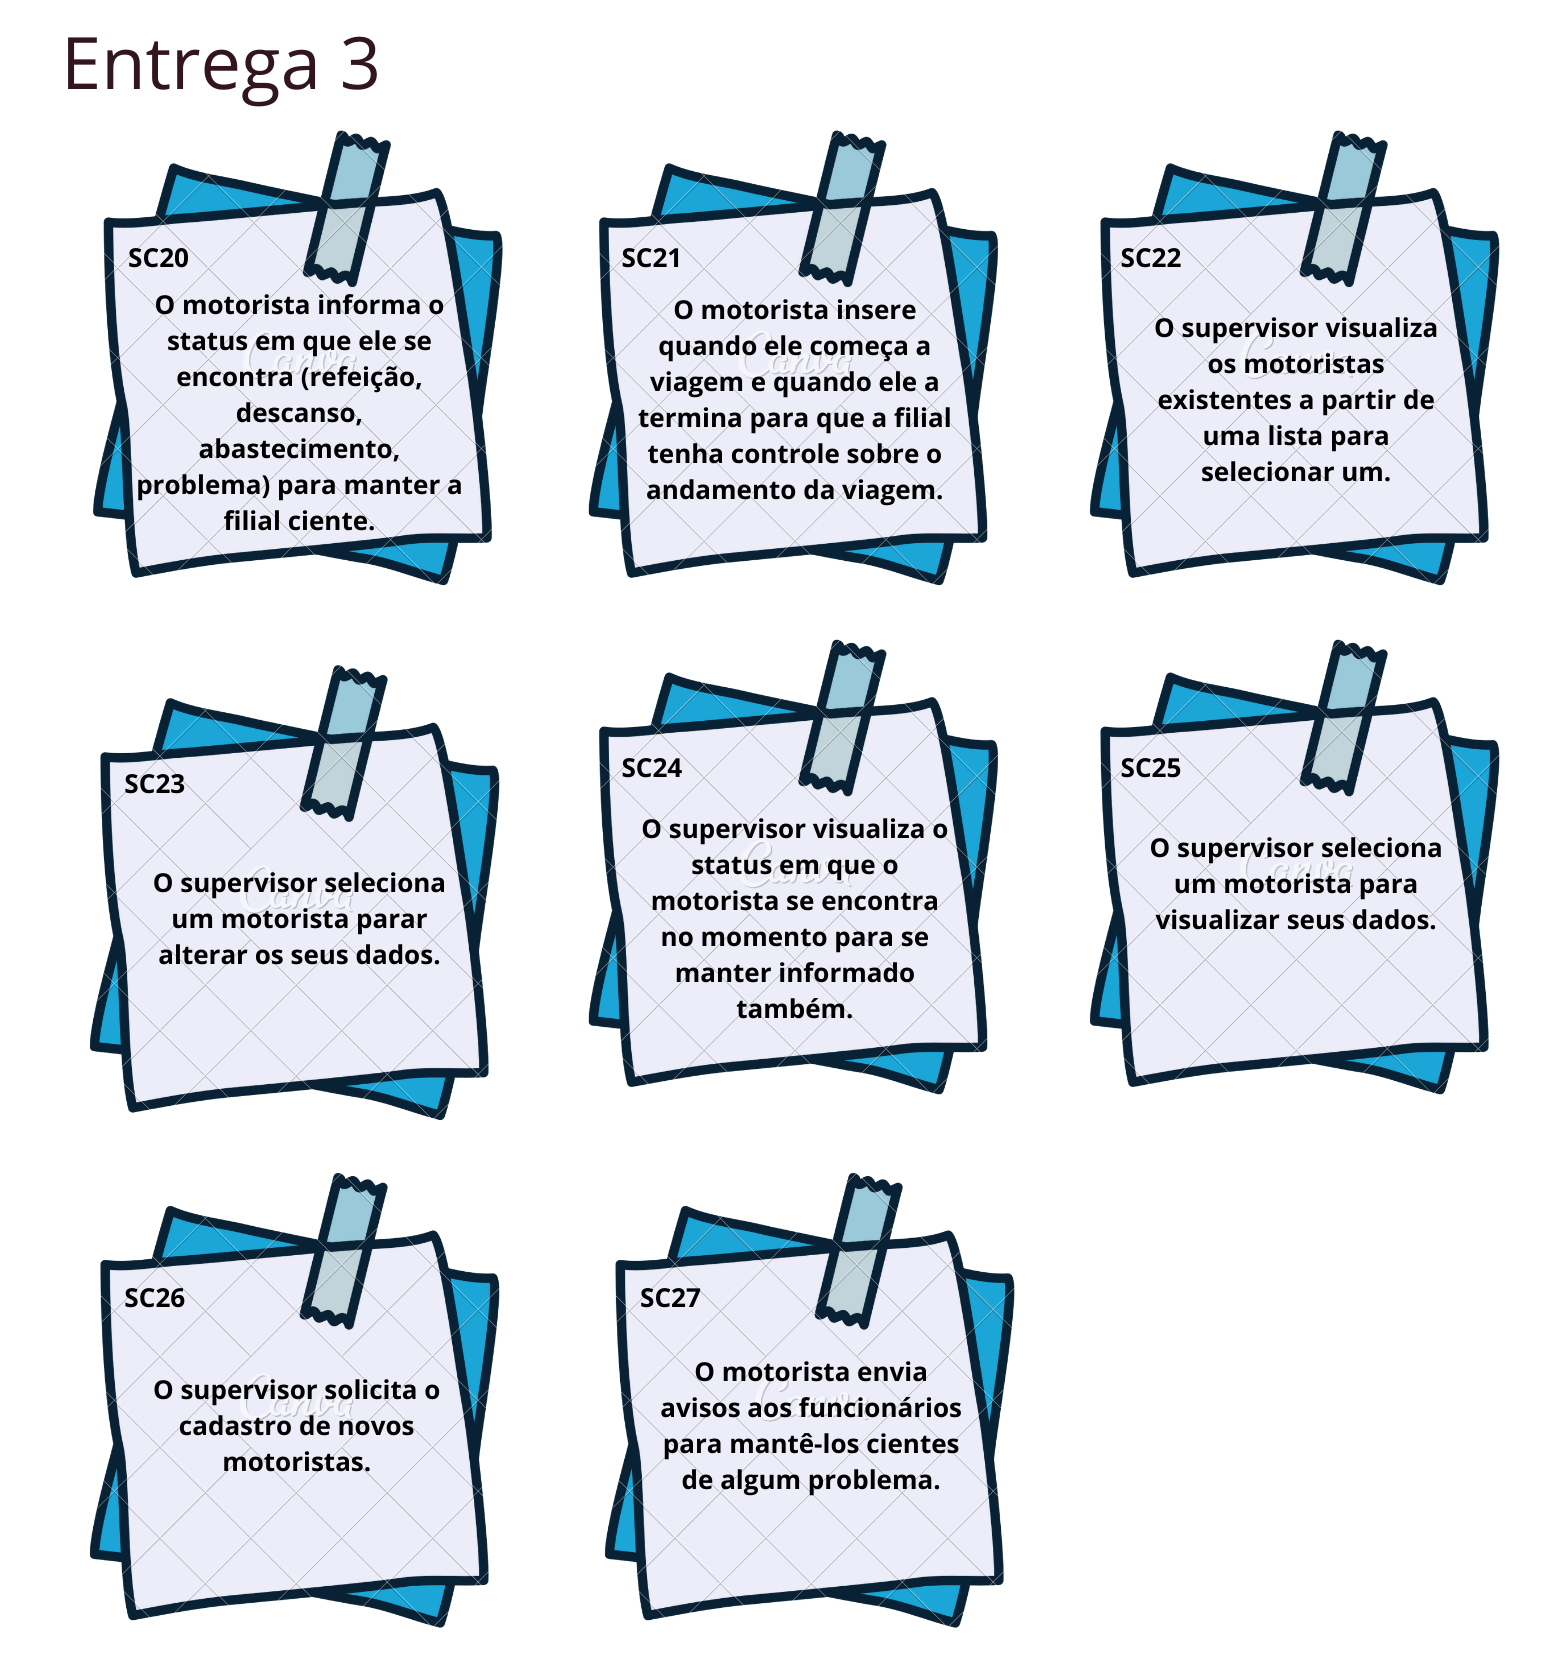
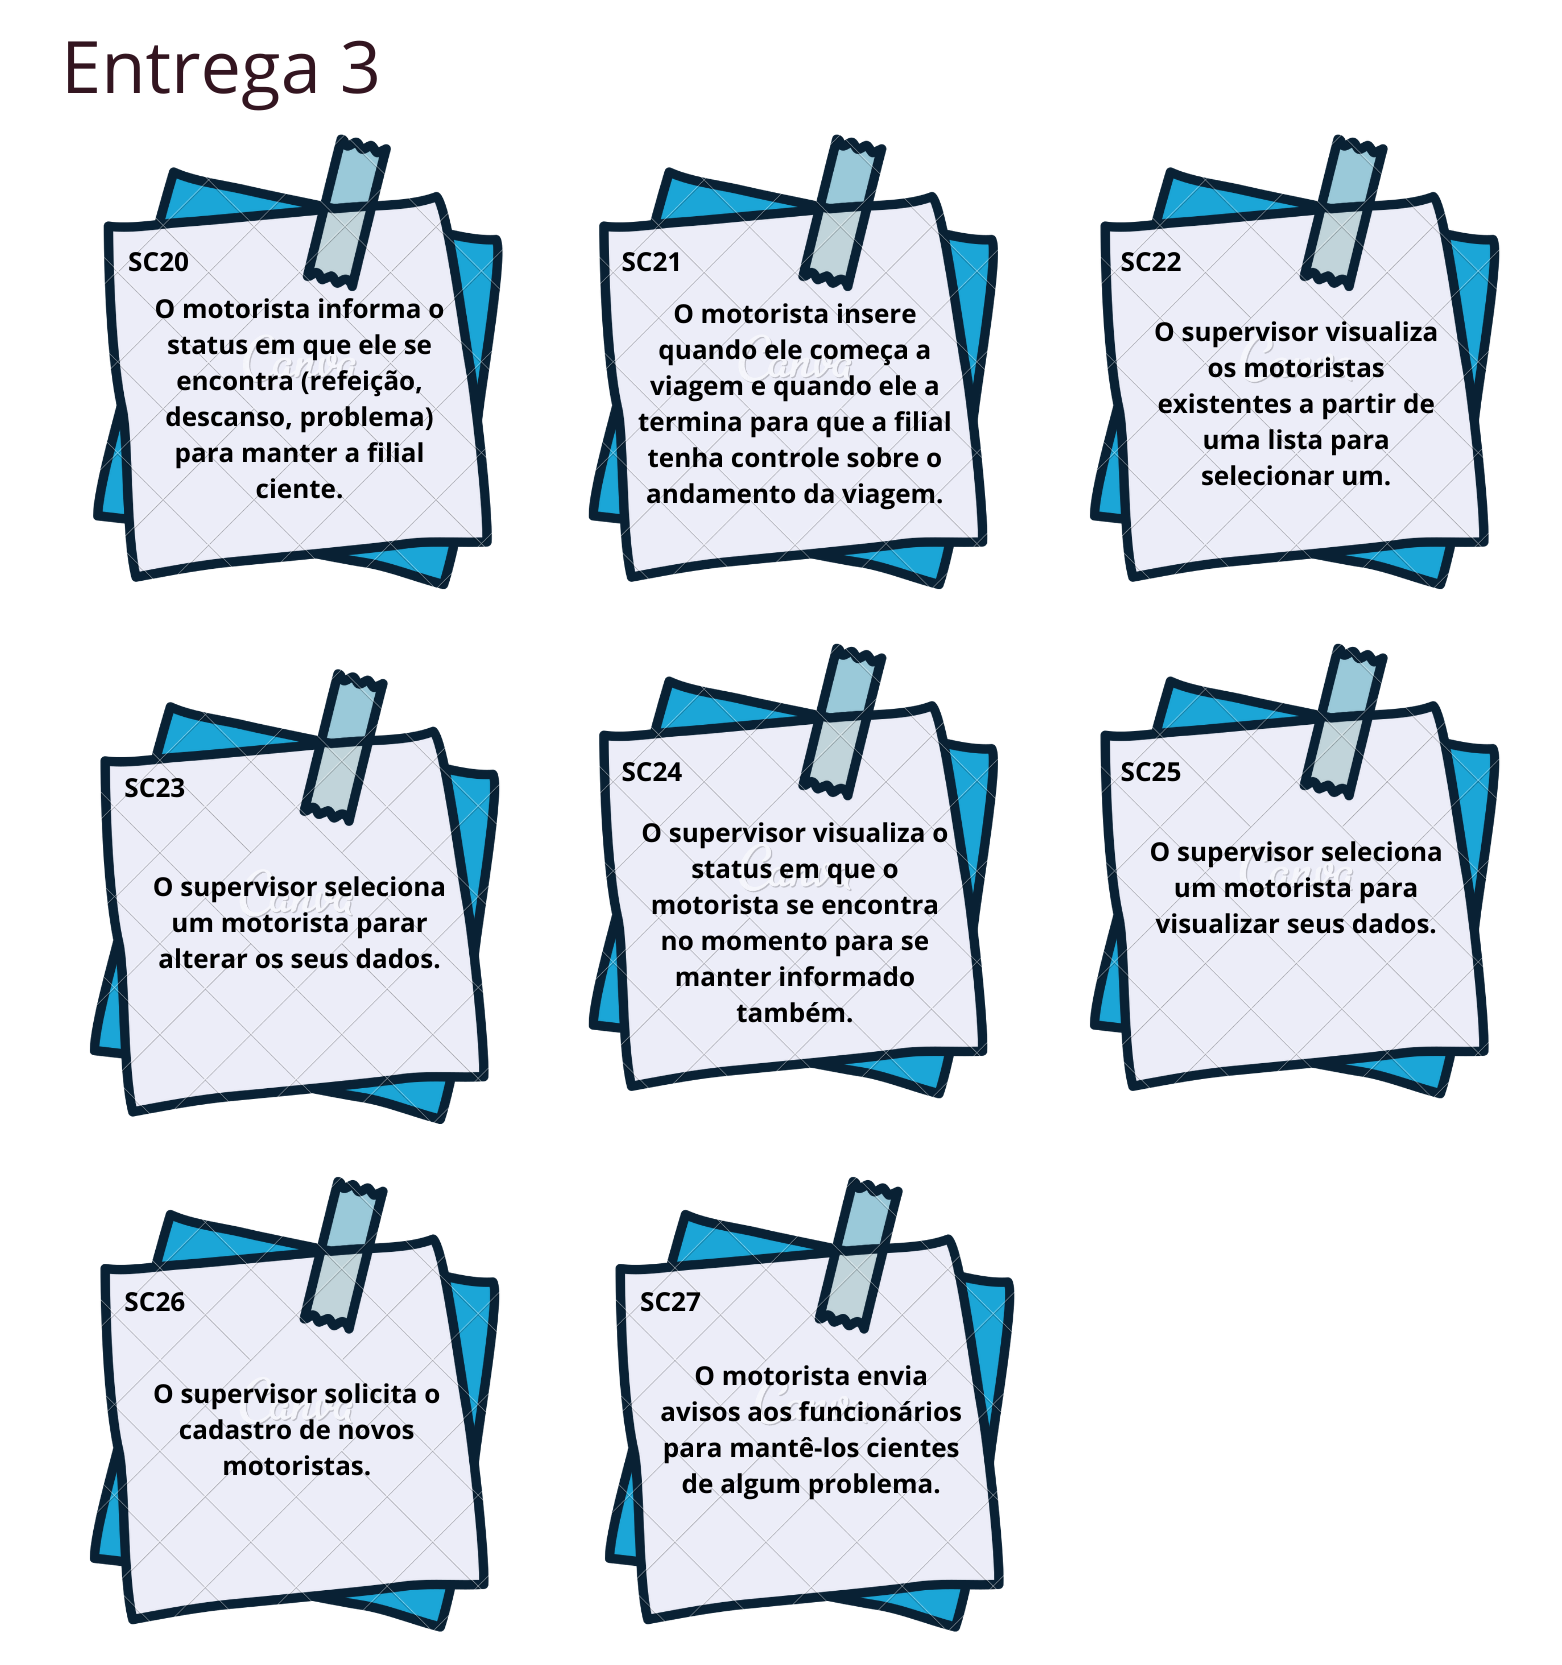
Alteração de um detalhe nas user stories, correção da versão do JDBC no build.gradle, correção de alguns bugs do login e adição do tamanho dos campos de cada coluna do campo. Tempo total: 2 horas.

diff --git a/src/RoadTracker/src/main/java/model/Motorista.java b/src/RoadTracker/src/main/java/model/Motorista.java
@@ -4,6 +4,8 @@ import java.time.LocalDate;
 import java.util.ArrayList;
 import java.util.List;
 
+import javax.persistence.Basic;
+import javax.persistence.Column;
 import javax.persistence.Entity;
 import javax.persistence.EntityManager;
 import javax.persistence.ForeignKey;
@@ -21,13 +23,19 @@ import view.Funcionarios;
 @Table(name = "motoristas")
 public class Motorista {
 	@Id
+	@Column(length=14, nullable=false)
 	private String cpf;
-	
+	@Column(length=50, nullable=false)
 	private String nome;
+	@Column(length=50, nullable=false)
 	private String email;
+	@Column(length=32, nullable=false)
 	private String senha;
+	@Column(length=10, nullable=false)
 	private String salario;
+	@Column(length=4, nullable=false)
 	private String cargaHoraria;
+	@Column(length=11, nullable=false)
 	private String turno;
 	private boolean seg;
 	private boolean ter;
@@ -36,11 +44,15 @@ public class Motorista {
 	private boolean sex;
 	private boolean sab;
 	private boolean dom;
+	@Column(length=13)
 	private String cargo;
-	
+	@Column(length=2)
 	private String dia_atual;
+	@Column(length=5)
 	private String trabalhado_hoje;
+	@Column(length=5)
 	private String descansado_hoje;
+	@Column(length=5)
 	private String alimentacao_hoje;
 	
 	// Mapeamento
@@ -54,7 +66,7 @@ public class Motorista {
 	//@OneToMany(mappedBy = "funcionario")
 	//private List<Viagem> viagens = new ArrayList<Viagem>();
 	
-	
+	@Column(length=14)
 	public String getCpf() {
 		return cpf;
 	}

diff --git a/src/RoadTracker/src/main/java/model/Veiculo.java b/src/RoadTracker/src/main/java/model/Veiculo.java
@@ -3,6 +3,7 @@ package model;
 import java.util.ArrayList;
 import java.util.List;
 
+import javax.persistence.Column;
 import javax.persistence.Entity;
 import javax.persistence.EntityManager;
 import javax.persistence.ForeignKey;
@@ -20,10 +21,15 @@ import view.Veiculos;
 public class Veiculo {
 	
 	@Id
+	@Column(length=8)
 	private String placa;
+	@Column(length=20)
 	private String modelo_veiculo;
+	@Column(length=20)
 	private int id_rastreador;
+	@Column(length=20)
 	private String marca_rastreador;
+	@Column(length=20)
 	private String modelo_rastreador;
 
 	@ManyToOne
@@ -31,9 +37,6 @@ public class Veiculo {
 	private Filial filial = new Filial();
 	@OneToMany(mappedBy = "veiculo")
 	private List<Viagem> viagens = new ArrayList<Viagem>();
-	
-	
-
 	
 	public String getPlaca() {
 		return placa;

diff --git a/src/RoadTracker/src/main/java/model/Filial.java b/src/RoadTracker/src/main/java/model/Filial.java
@@ -2,6 +2,8 @@ package model;
 
 import java.util.ArrayList;
 import java.util.List;
+
+import javax.persistence.Column;
 import javax.persistence.Entity;
 import javax.persistence.EntityManager;
 import javax.persistence.GeneratedValue;
@@ -21,10 +23,15 @@ public class Filial {
 	@GeneratedValue(strategy = GenerationType.SEQUENCE)
 	/* @Column(name="id_filial") */
 	private Integer id;
+	@Column(length=50)
 	private String nome;
+	@Column(length=30)
 	private String cidade;
+	@Column(length=2)
 	private String estado;
+	@Column(length=18)
 	private String cnpj;
+	@Column(length=8)
 	private String rntrc;
 	
 	//uma filial possui um ou mais funcionarios

diff --git a/src/RoadTracker/src/main/java/model/Viagem.java b/src/RoadTracker/src/main/java/model/Viagem.java
@@ -4,6 +4,7 @@ import java.time.LocalDate;
 import java.util.ArrayList;
 import java.util.List;
 
+import javax.persistence.Column;
 import javax.persistence.Entity;
 import javax.persistence.EntityManager;
 import javax.persistence.ForeignKey;
@@ -25,11 +26,17 @@ public class Viagem {
 	@Id
 	@GeneratedValue(strategy = GenerationType.SEQUENCE)
 	private Integer id;
+	@Column(length=10)
 	private String inicio;
+	@Column(length=10)
 	private String fim;
+	@Column(length=8)
 	private String total;
+	@Column(length=30)
 	private String destino;
+	@Column(length=20)
 	private String carga;
+	@Column(length=12)
 	private String situacao;
 
 	@ManyToOne

diff --git a/src/RoadTracker/src/main/java/model/Status.java b/src/RoadTracker/src/main/java/model/Status.java
@@ -2,6 +2,7 @@ package model;
 
 import java.util.Date;
 
+import javax.persistence.Column;
 import javax.persistence.Entity;
 import javax.persistence.EntityManager;
 import javax.persistence.ForeignKey;
@@ -20,9 +21,13 @@ public class Status {
 	@Id
 	@GeneratedValue(strategy = GenerationType.SEQUENCE)
 	private Integer id;
+	@Column(length=20)
 	private String tipo;
+	@Column(length=10)
 	private String inicio;
+	@Column(length=10)
 	private String fim;
+	@Column(length=8)
 	private String total;
 
 	

diff --git a/src/RoadTracker/src/main/java/model/Aviso.java b/src/RoadTracker/src/main/java/model/Aviso.java
@@ -28,8 +28,11 @@ public class Aviso {
 	@Column(columnDefinition="TEXT")
 	private String mensagem;
 	private boolean resolvido;
+	@Column(length=10)
 	private String data;
+	@Column(length=15)
 	private String nomenclatura;
+	@Column(length=14)
 	private String emissor;
 	
 	//um ou mais avisos correspondem a um funcionario
